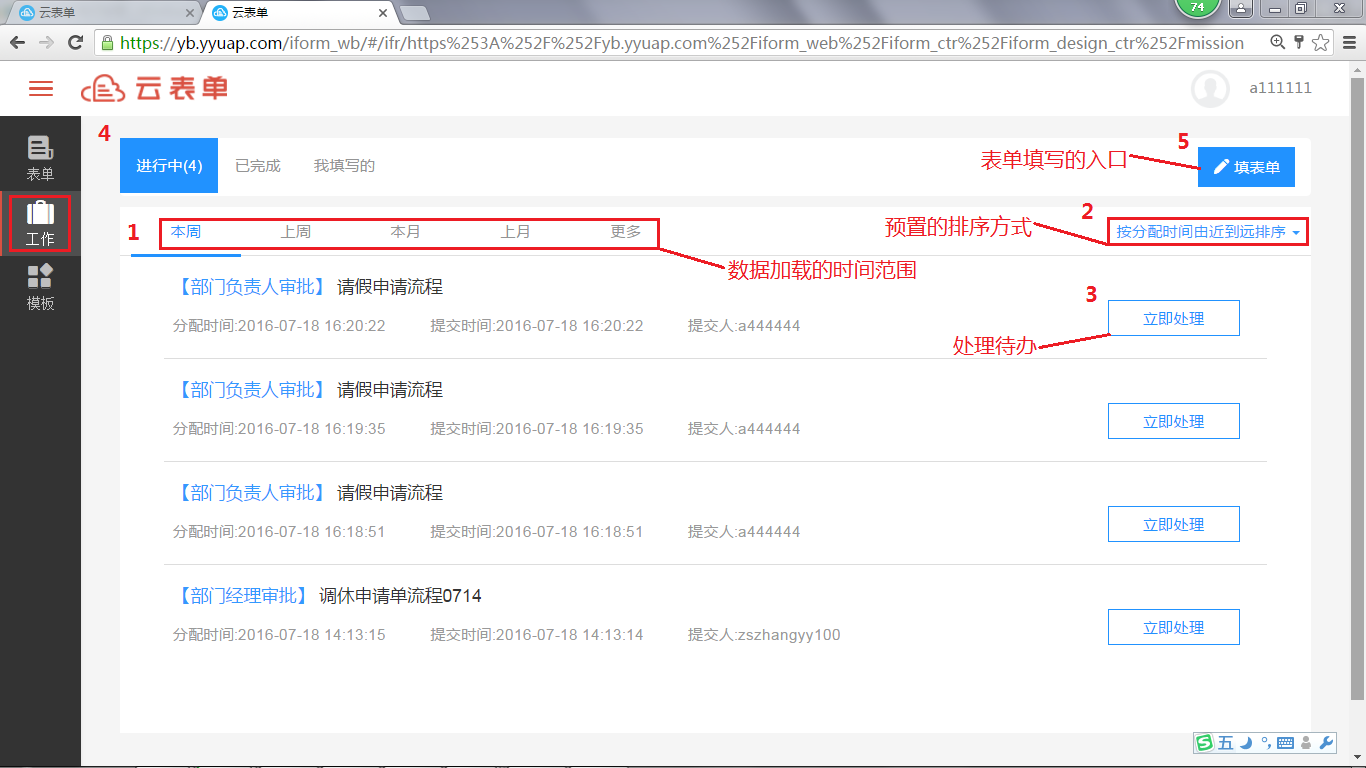
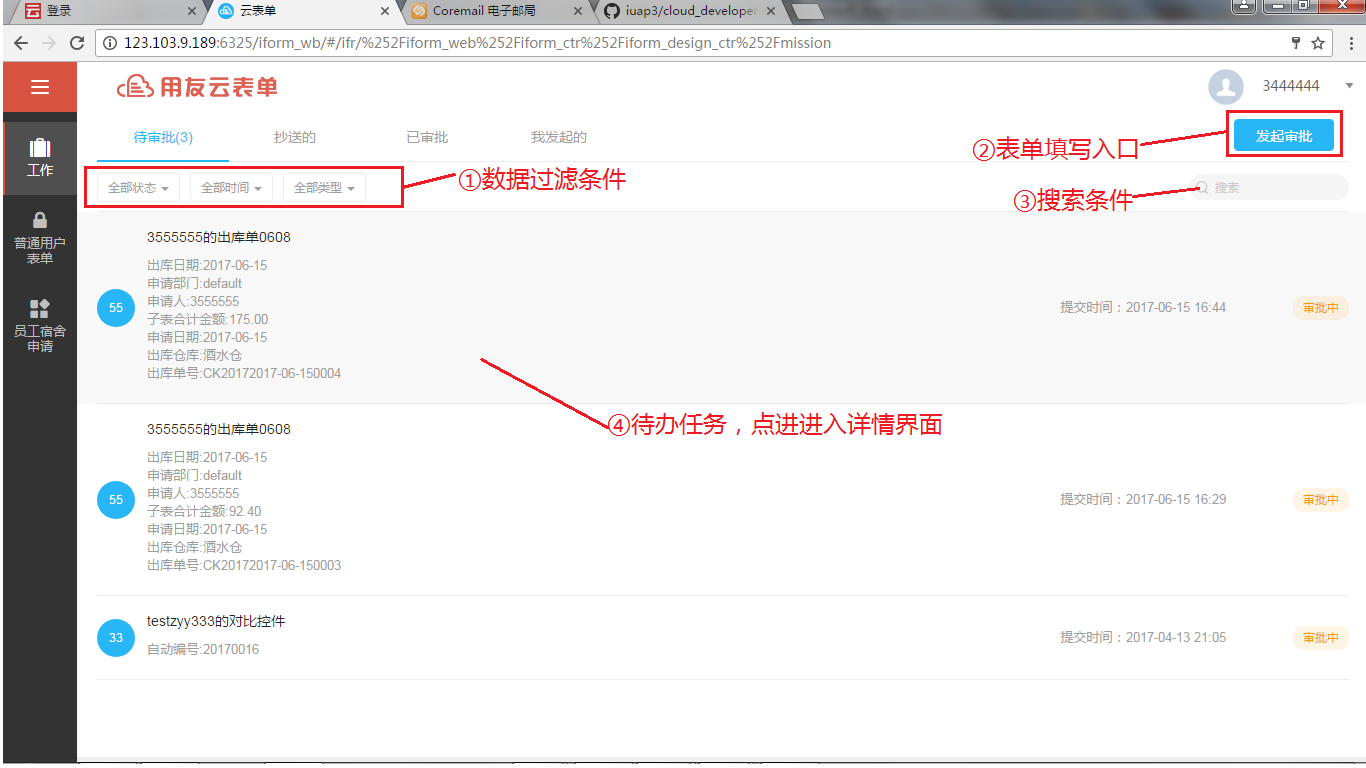
Creates articles/form/3-/images/image26.png
Auto commit by GitBook Editor

diff --git a/articles/form/3-/work_center.md b/articles/form/3-/work_center.md
@@ -1,28 +1,31 @@
 # 工作中心
 
-## 功能介绍 
+## 1. 功能介绍 
 
-工作中心以当前登陆人为中心，集中展现了我的进行中的任务、我的已完成的任务和我填写的表单。
+工作中心以当前登陆人为中心，集中展现了我待办的任务、已完成的任务、抄送给我的和我填写的表单。
 
-如图【工作中心—进行中】所示，点击左侧边栏上的【工作】，切换到工作中心界面。
+如图【工作中心—待审批】所示，点击左侧边栏上的【工作】，切换到工作中心界面。
+
 
 ![](/articles/form/3-/images/image26.png)
 
-工作中心--进行中
+工作中心--待审批
 
-## 界面说明 
+## 2. 界面说明 
 
-如图【工作中心—进行中】所示，打开工作节点，系统默认按分配时间由近到远的顺序，显示我的本周的进行中的任务。
+如图【工作中心—待审批】所示，打开工作节点，系统默认按提交时间由近到远的顺序，显示我的待审批任务。
 
-系统分三个页签，展现我的进行中的任务，我的已完成的任务和我填写的表单。界面整体风格一致，只是在数据明细列表中有些许的差异 。
+系统分四个页签，展现待审批的任务，抄送的任务、已完成的任务和我填写的表单。界面整体风格一致，只是在数据明细列表中有些许的差异 。
 
 下面我们来分别讲述。
 
-## 工作中心功能 
 
-工作中心主要提供四个功能：查看并处理我的进行中的任务，查看我的已完成的任务，查看我填写的表单以及填表单。
+## 3. 工作中心功能 
 
-### 我的进行中的任务 
+工作中心主要提供五个功能：查看并处理我的待审批任务，查看抄送我的任务，查看我的已完成的任务，查看我填写的表单以及发起审批。
+
+
+### 3.1 我的待审批任务 
 
 我的进行中的任务，顾名思义，是需要我处理的但还未处理的任务。这些任务显示在工作的【进行中】页签。
 
